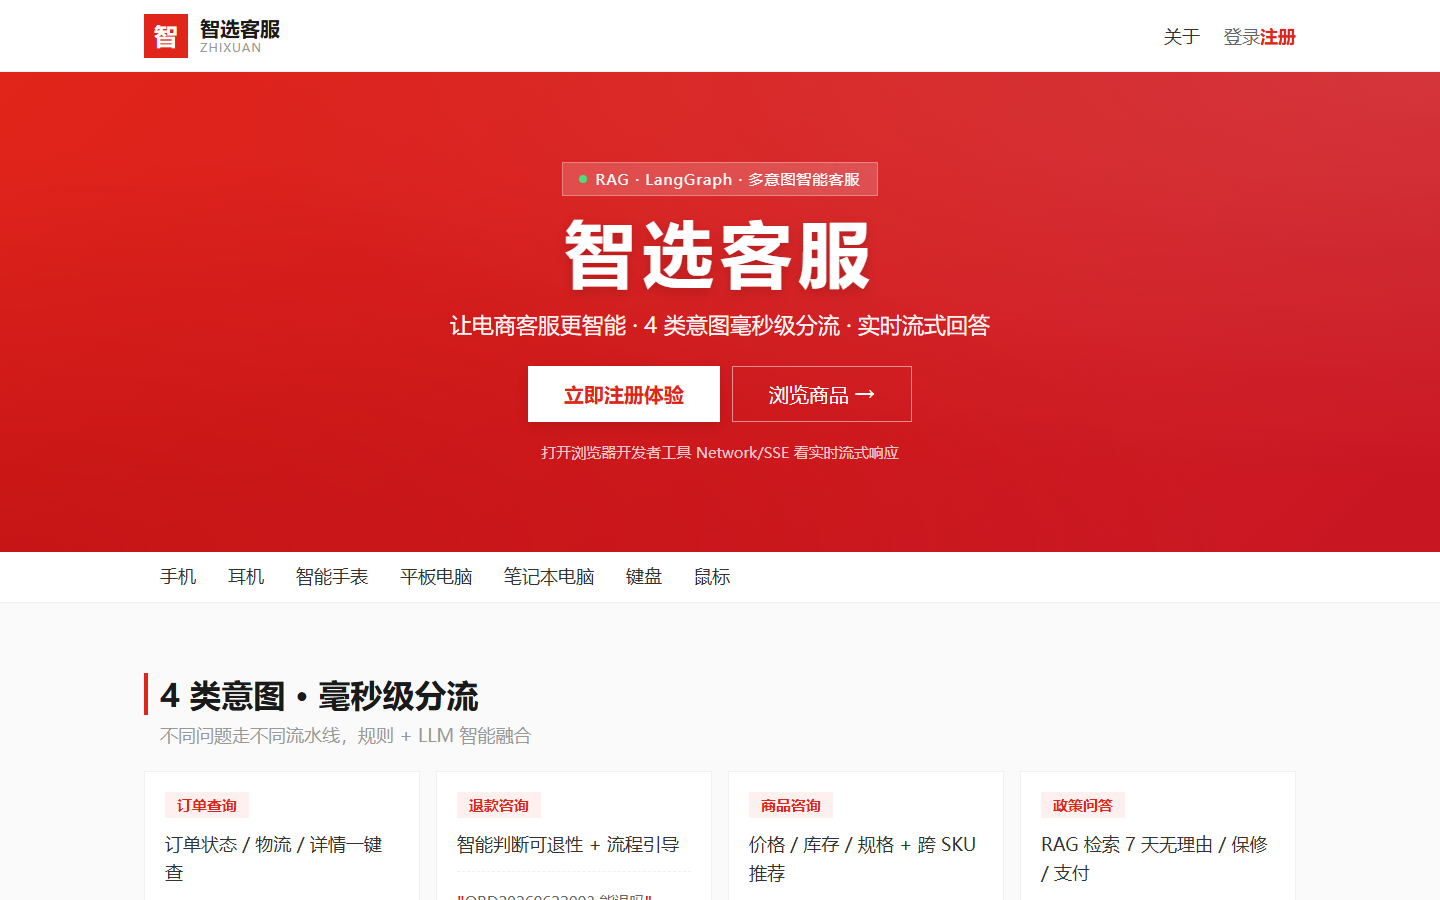
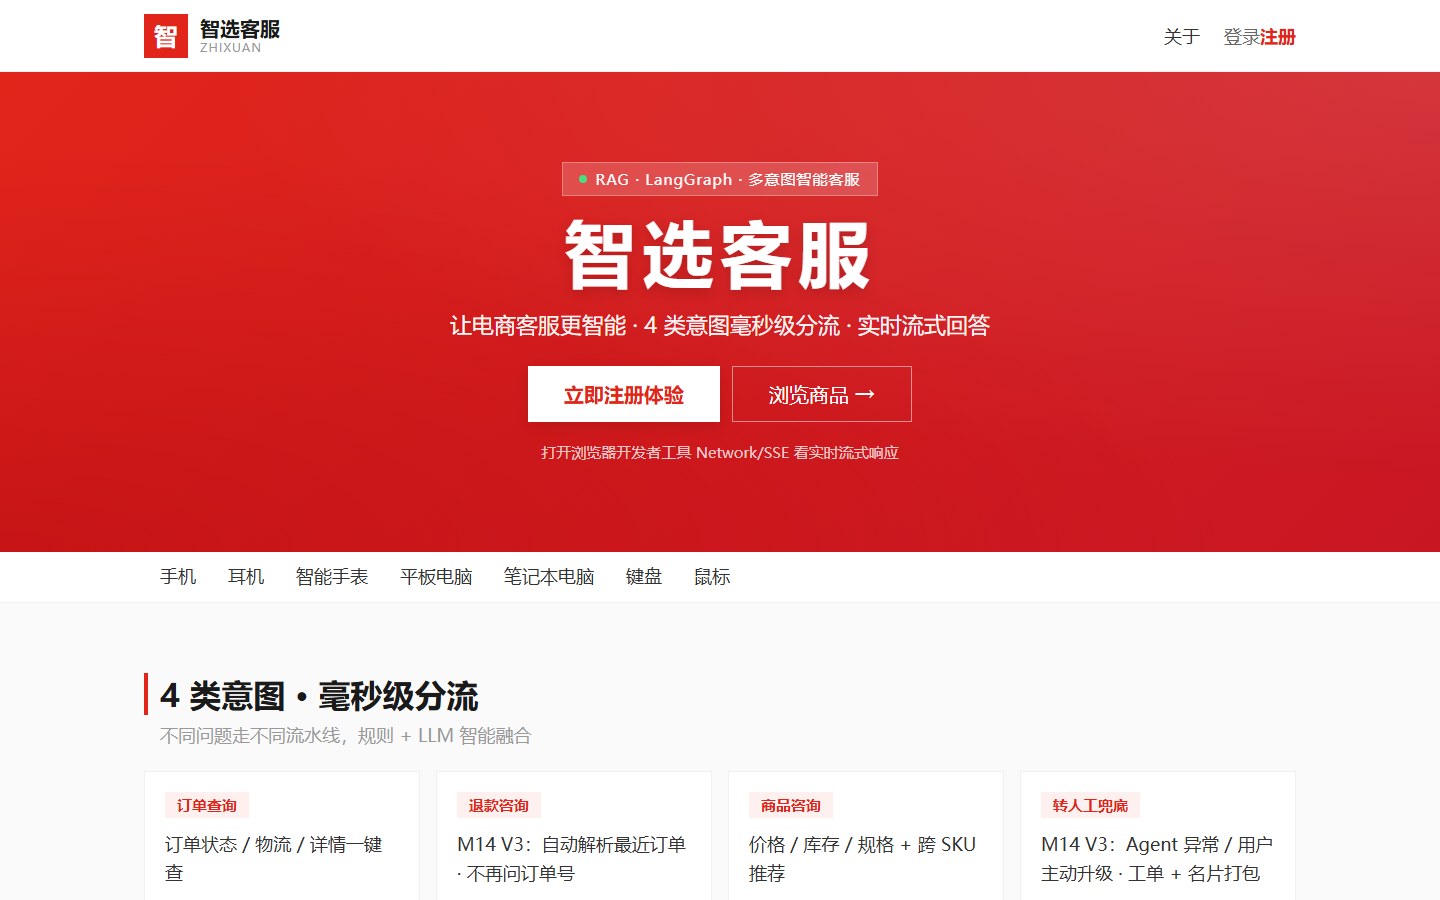
fix(m14): 公网部署 V3 — 演示界面 + crypto + 等待时间
公网 http://120.79.27.124:5173 实测 10/10 PASS 闭环修复：

1. DemoLanding.vue 同步 V3：
   - 退款卡片改为「我的衣服有问题能退吗」（主动查询，不再要订单号）
   - 新增「转人工兜底」第 4 类意图卡片（我要转人工 / 找真人客服 / AI 答不了）
   - 工程亮点「5 服务 Docker」→「M14 V3 主动查询 + 转人工兜底」

2. ChatPage.vue crypto.randomUUID fallback：
   - `crypto?.randomUUID?.() ?? Date.now()-Math.random()` 兼容 headless 环境
   - 修复 3 条 console error（Playwright Chromium 验证时触发）

3. verify_demo_public.py 公网 ECS 等待时间调整：
   - step6 RAG: 8s → 15s（公网调 Qwen 12s+）
   - step7 LangGraph: 6s+8s → 12s+12s（双轮提问）
   - 加 console location URL 日志，便于排查

4. 商品 seed：04_products_seed.sql 补 SKU001-SKU010（3 手机/2 耳机/1 手表/1 平板/1 笔记本/1 键盘/1 鼠标）

5. demotest 账号补 7 单：pending/paid/shipped/delivered/refunded 全 5 状态覆盖

最终：step 1-10 全 PASS，console 0 错误，handoff 工单号 H80ACF3CC 等

Changed region(s): [[0.3125, 0.9333, 0.4688, 1.0], [0.7188, 0.9333, 0.875, 0.9956], [0.7188, 0.8711, 0.7812, 0.9022]]

diff --git a/frontend/src/views/DemoLanding.vue b/frontend/src/views/DemoLanding.vue
@@ -17,7 +17,7 @@ const loading = ref(true);
 
 const isLoggedIn = computed(() => isAuthed.value === true);
 
-// 4 类意图卡片（京东红强调）
+// 4 类意图卡片（京东红强调）+ M14 V3：退款主动查询 + 转人工兜底
 const capabilities = [
   {
     intent: '订单查询',
@@ -26,13 +26,18 @@ const capabilities = [
   },
   {
     intent: '退款咨询',
-    desc: '智能判断可退性 + 流程引导',
-    examples: ['ORD20260622003 能退吗', '怎么申请退货', '退款多久到账'],
+    desc: 'M14 V3：自动解析最近订单 · 不再问订单号',
+    examples: ['我的衣服有问题能退吗', '我想退件商品', '前天买的想退款'],
   },
   {
     intent: '商品咨询',
     desc: '价格 / 库存 / 规格 + 跨 SKU 推荐',
-    examples: ['ZP1 现在多少钱', 'BP1 续航怎么样', '千元机推荐'],
+    examples: ['Z1 旗舰手机多少钱', 'E1 耳机续航怎么样', '千元机推荐'],
+  },
+  {
+    intent: '转人工兜底',
+    desc: 'M14 V3：Agent 异常 / 用户主动升级 · 工单 + 名片打包',
+    examples: ['我要转人工', '找真人客服', '这 AI 答不了'],
   },
   {
     intent: '政策问答',
@@ -220,9 +225,9 @@ function goShop(cat?: string) {
           <div class="highlight-desc">可退/质量问题/超期/已退 4 路径分支 + V2 fallback</div>
         </div>
         <div class="highlight-box">
-          <div class="highlight-num">5 服务</div>
-          <div class="highlight-label">Docker Compose 部署</div>
-          <div class="highlight-desc">API + Frontend + MySQL + Redis + Qdrant 一键起停</div>
+          <div class="highlight-num">M14 <small>V3</small></div>
+          <div class="highlight-label">主动查询 + 转人工兜底</div>
+          <div class="highlight-desc">Resolver 4 决策自动解析最近订单 · 异常/用户升级触发 HandoffCard</div>
         </div>
       </div>
     </section>

diff --git a/frontend/src/views/ChatPage.vue b/frontend/src/views/ChatPage.vue
@@ -220,8 +220,13 @@ async function sendMessage(text: string, ctx?: { sku?: string; orderNo?: string 
   let capturedMeta: StreamEvent | null = null;
   // 新会话预生成 UUID：让后端复用作 session_id，
   // 保证流中途断开时 resumeChat 能拿到 sid（不再受限于 done 事件）
+  // 兼容旧浏览器/headless 环境：crypto.randomUUID 在 Chrome 92+ 才稳定
   const startSessionId =
-    currentSessionId.value ?? crypto.randomUUID().replace(/-/g, '');
+    currentSessionId.value ??
+    (crypto?.randomUUID?.() ?? `${Date.now()}-${Math.random().toString(36).slice(2)}`).replace(
+      /-/g,
+      '',
+    );
   const isFirstUserMessage = !currentSessionId.value; // 新会话才设标题
 
   // Sprint P2 / SSE Resume：本回合 stream_id + 最后 seq（catch 时用于续传）

diff --git a/scripts/verify_demo_public.py b/scripts/verify_demo_public.py
@@ -211,7 +211,7 @@ async def step6_chat_rag(page: Page) -> bool:
         # RAG 测试 query
         await page.fill("input[type='text'], textarea", "退货政策是什么？")
         await page.keyboard.press("Enter")
-        await page.wait_for_timeout(8000)  # 等 SSE 流式回答
+        await page.wait_for_timeout(15000)  # 公网 ECS 调 Qwen API 较慢，RAG 回答需要 12s+
         await settle_screenshot(page, "demo-06-chat-rag")
         content = await page.content()
         # 验证：RAG 回答里出现知识库特征词
@@ -232,11 +232,11 @@ async def step7_refund_langgraph(page: Page) -> bool:
         await page.wait_for_selector("input[type='text'], textarea", timeout=10000)
         await page.fill("input[type='text'], textarea", "我想退款")
         await page.keyboard.press("Enter")
-        await page.wait_for_timeout(6000)
+        await page.wait_for_timeout(12000)
         # LangGraph 应该问订单号
         await page.fill("input[type='text'], textarea", "ORD20260101001")
         await page.keyboard.press("Enter")
-        await page.wait_for_timeout(8000)
+        await page.wait_for_timeout(12000)
         await settle_screenshot(page, "demo-07-refund-langgraph")
         content = await page.content()
         # LangGraph 路径特征：状态词、订单号、time/days 关键词
